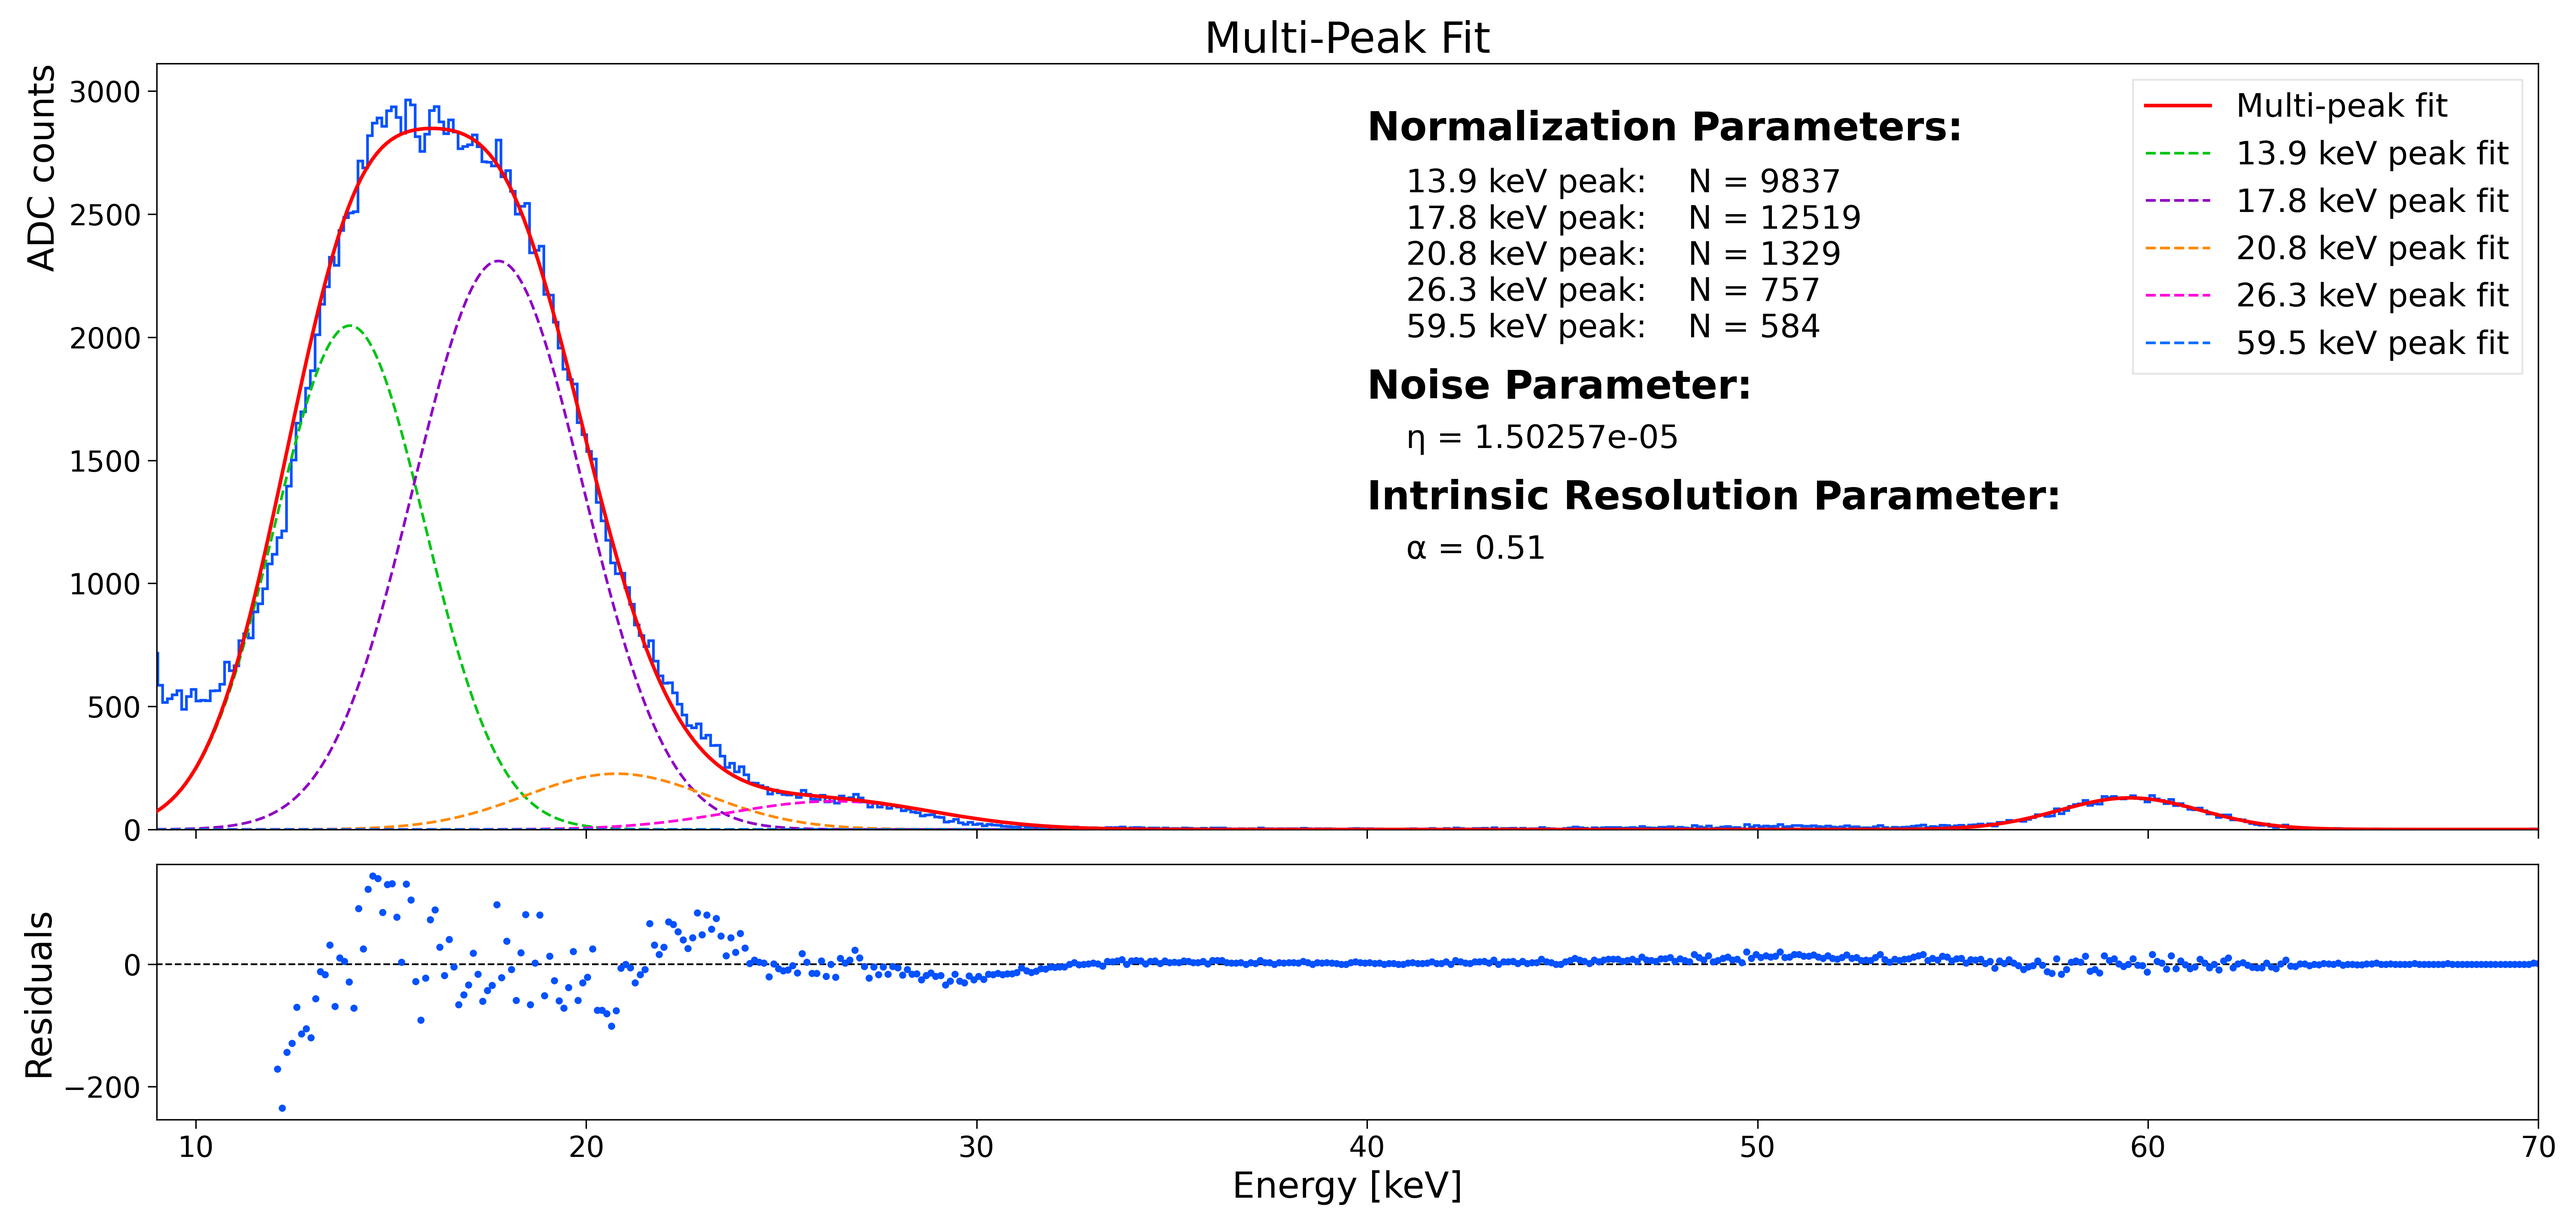
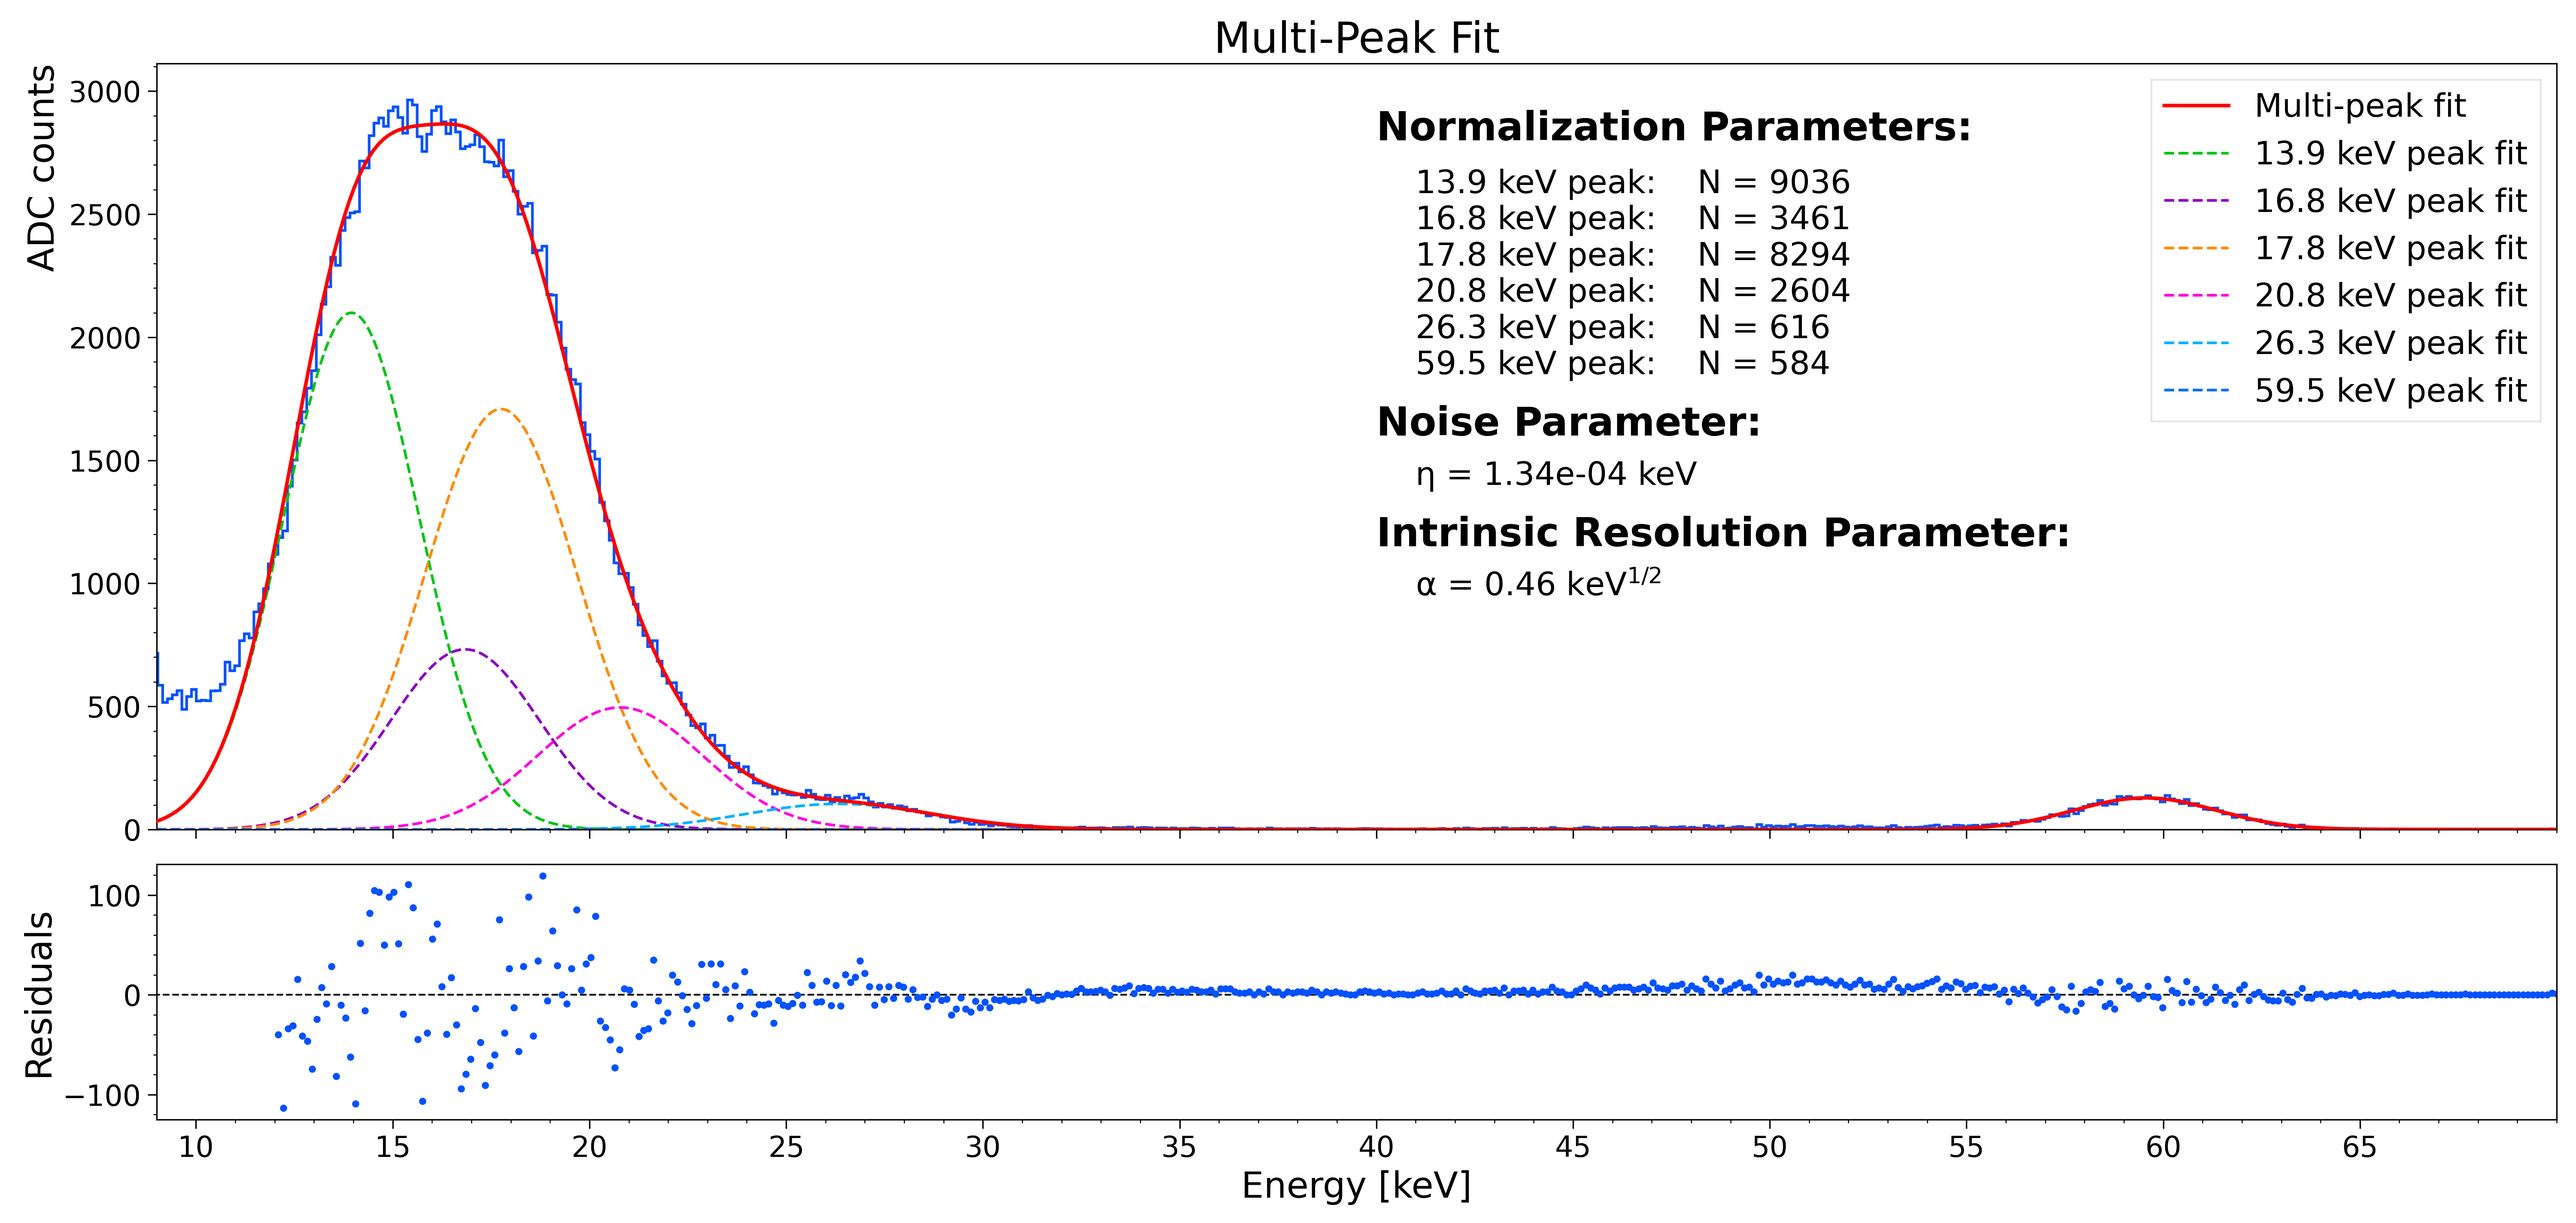
added peak

diff --git a/FOTODIODO/long_exposure/analysis.py b/FOTODIODO/long_exposure/analysis.py
@@ -26,7 +26,7 @@ p21_pr=2.94
 p26_pr=2.40
 p60_pr=35.78
 #p60esc_pr=0
-peaks=     [p14_en,p18_en,p21_en,p26_en,p60_en]
+peaks=     [p14_en,p17_en,p18_en,p21_en,p26_en,p60_en]
 #peaks_prob=[p14_pr,p17_en,p18_pr,p26_pr,p60_pr]
 
 
@@ -43,9 +43,9 @@ def gauss1(X,N,mean,sigma):
 # Alterantive: compute only ONE FIT at a time based on the x value and return 
 # only that gaussian value. However, given the proximity of the two peaks at 
 # 14 and 17 keV, I prefer the first approach.
-def multi_gauss(X,N0,N1,N2,N3,N4,sigmaNoise, sigmaEn,k):
+def multi_gauss(X,N0,N1,N2,N3,N4,N5,sigmaNoise, sigmaEn,k):
 
-    N=[N0,N1,N2,N3,N4]
+    N=[N0,N1,N2,N3,N4,N5]
     v=0
     for i in range(len(peaks)):
         mean = peaks[i]
@@ -176,7 +176,8 @@ def main():
         '#00C415',
         '#8E00C4',
         '#FF8900',
-        '#FF00D9'
+        '#FF00D9',
+        '#00B1FF',
     ]
     # loop over all peaks except for 60 keV which 
     # will be plotted later
@@ -213,6 +214,12 @@ def main():
     ax[0].tick_params(axis = 'both', which = 'major', labelsize = 16, direction = 'out', length = 5)
     ax[1].tick_params(axis = 'both', which = 'major', labelsize = 16, direction = 'out', length = 5)
 
+    ax[0].minorticks_on()
+    ax[1].minorticks_on()
+    ax[0].tick_params(axis = 'x', which = 'minor', labelsize = 16, direction = 'out')
+
+    ax[0].set_xticks(range(0,70,5))
+
     ax[0].set_xlim(left = 9, right = 70)
 
     ax[0].legend(prop = {'size': 18}, loc = 'best', ncol = 1, frameon = True, fancybox = False, framealpha = 0.5)
@@ -224,17 +231,18 @@ def main():
     N3 = format(peaks[2], '1.1f') + ' keV peak:    N = ' + format(par[2], '1.0f') 
     N4 = format(peaks[3], '1.1f') + ' keV peak:    N = ' + format(par[3], '1.0f') 
     N5 = format(peaks[4], '1.1f') + ' keV peak:    N = ' + format(par[4], '1.0f') 
-    noise = '\u03B7 = ' + format(par[len(peaks)], '1.6')
-    res = '\u03B1 = ' + format(par[len(peaks)+1], '1.2f')
+    N6 = format(peaks[5], '1.1f') + ' keV peak:    N = ' + format(par[5], '1.0f') 
+    noise = '\u03B7 = ' + format(abs(par[len(peaks)]), '1.2e') + ' keV'
+    res = '\u03B1 = ' + format(par[len(peaks)+1], '1.2f')+' keV$^{1/2}$'
 
     ax[0].text(40, 2800, 'Normalization Parameters: ', fontsize = 22, fontweight = 'bold', transform=ax[0].transData)
-    ax[0].text(41, 2000, N1 + '\n' + N2 + '\n' + N3 + '\n' + N4 + '\n' + N5, fontsize = 18, color = '#000000', transform = ax[0].transData)
+    ax[0].text(41, 1850, N1 + '\n' + N2 + '\n' + N3 + '\n' + N4 + '\n' + N5 + '\n' + N6, fontsize = 18, color = '#000000', transform = ax[0].transData)
     
-    ax[0].text(40, 1750, 'Noise Parameter: ', fontsize = 22, fontweight = 'bold', transform=ax[0].transData)
-    ax[0].text(41, 1550, noise, fontsize = 18, color = '#000000', transform = ax[0].transData)
+    ax[0].text(40, 1600, 'Noise Parameter: ', fontsize = 22, fontweight = 'bold', transform=ax[0].transData)
+    ax[0].text(41, 1400, noise, fontsize = 18, color = '#000000', transform = ax[0].transData)
     
-    ax[0].text(40, 1300, 'Intrinsic Resolution Parameter: ', fontsize = 22, fontweight = 'bold', transform=ax[0].transData)
-    ax[0].text(41, 1100, res, fontsize = 18, color = '#000000', transform = ax[0].transData)
+    ax[0].text(40, 1150, 'Intrinsic Resolution Parameter: ', fontsize = 22, fontweight = 'bold', transform=ax[0].transData)
+    ax[0].text(41, 950, res, fontsize = 18, color = '#000000', transform = ax[0].transData)
 
 
     fig.tight_layout()
